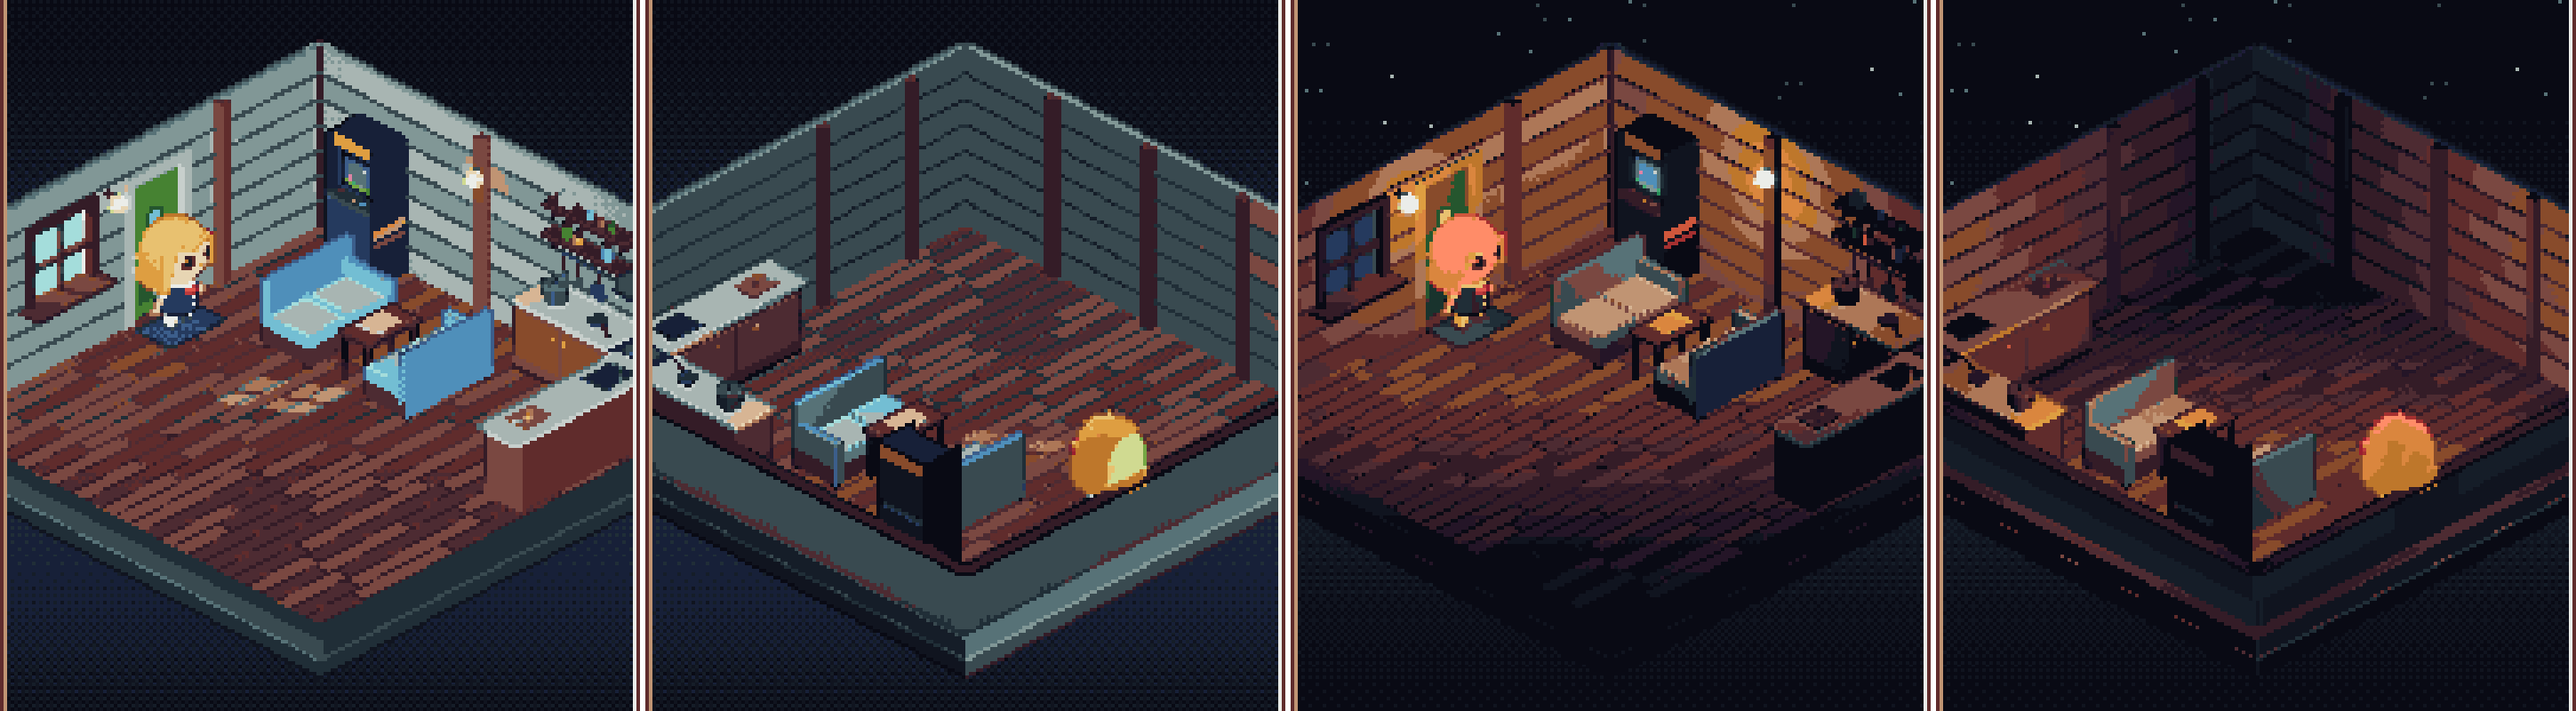
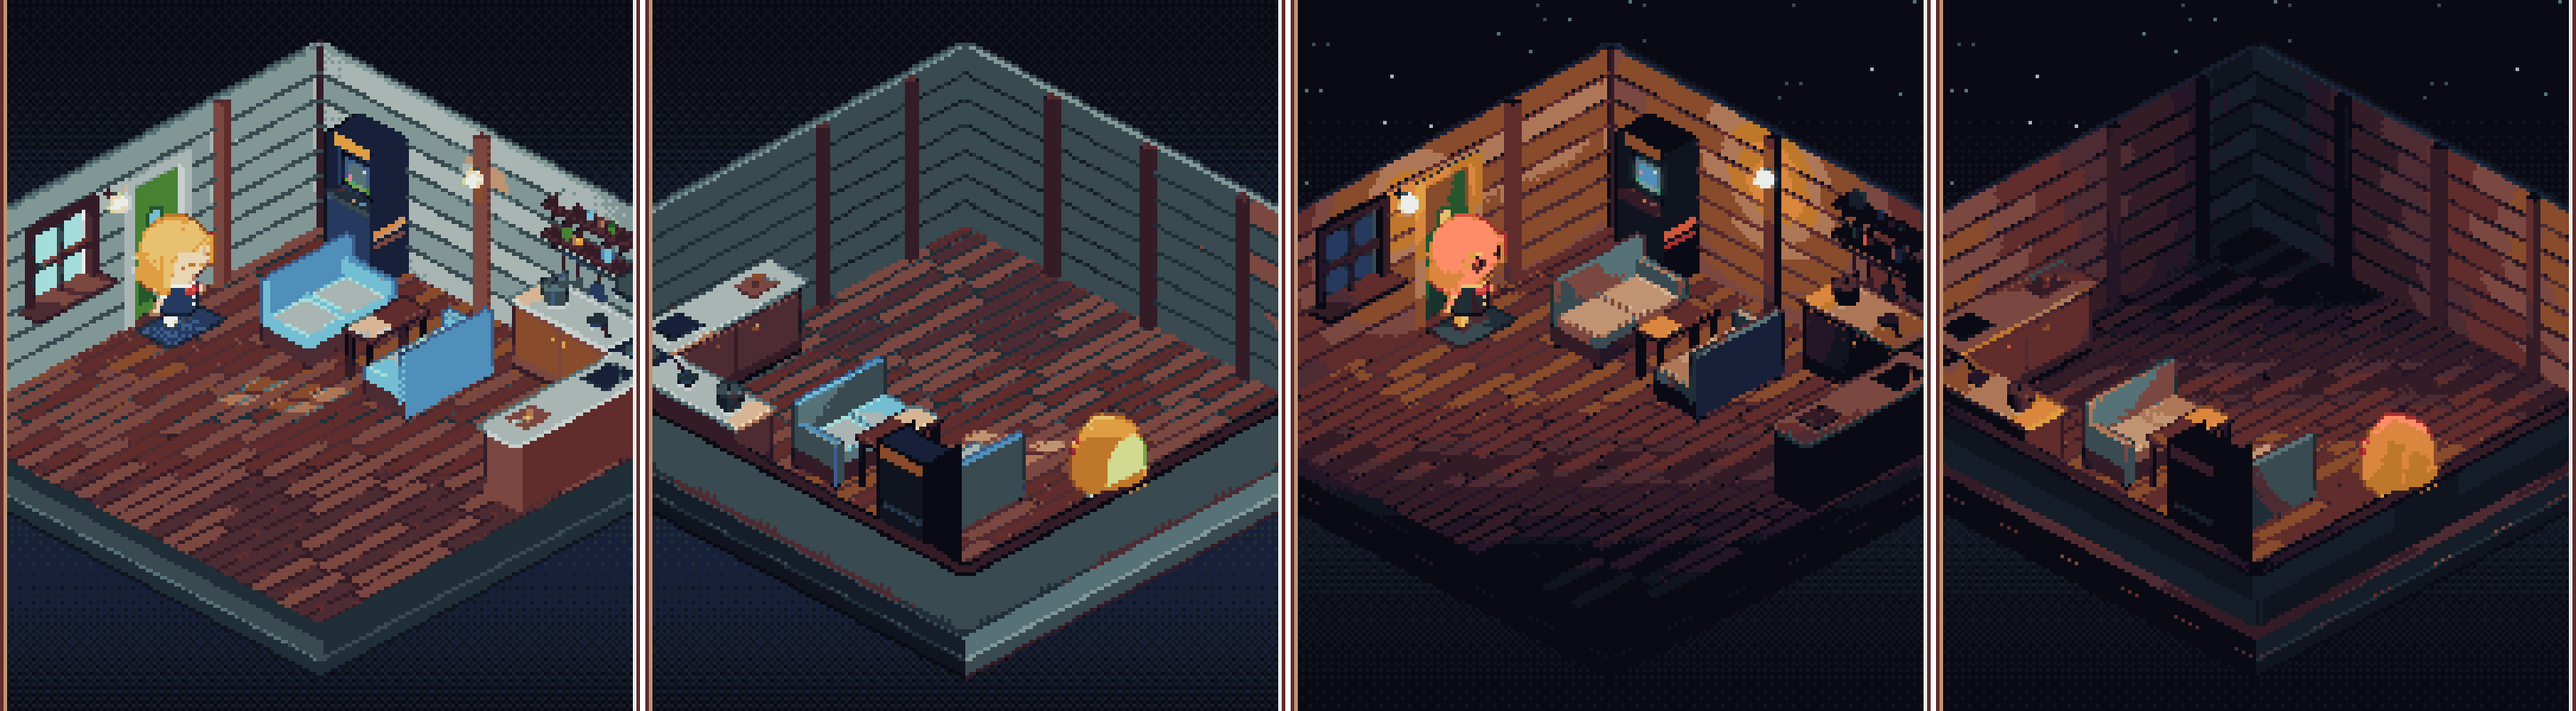
D: play-room taps by first visible surface (arcade / counter / table), final shots, report
Claude-Session: https://claude.ai/code/session_01Tq2y4TDvR447sevK1oN9Vu

diff --git a/js/scene3d.js b/js/scene3d.js
@@ -5203,12 +5203,27 @@ var SCENE3D = (function () {
       var h = hs[0]; if (ob.indexOf(h.object) >= 0) return 'oct'; if (h.object === doorDark) return 'door';
       return STAIR_HIT.containsPoint(atticG.worldToLocal(h.point.clone())) ? 'stair' : 'other';
     }
+    function playSurface() {   /* 놀이방: 광선이 처음 맞는 보이는 면 → 'machine' | 'counter' | 'table' | null (식탁 위 요리 · 앉은 두 캐릭터도 식탁) */
+      if (!PROOM) return null;
+      var ms = []; PROOM.g.traverseVisible(function (o) { if (o.isMesh && (o.material === lambert || o === TB.mesh || o.material === basicV)) ms.push(o); });
+      var bod = []; if (octG.parent === PROOM.g && octG.visible) bod = bod.concat(bodyMeshes()); if (plG.parent === PROOM.g && PL.tbl) plMeshes.forEach(function (m) { bod.push(m); });
+      var hs = ray.intersectObjects(ms.concat(bod), false); if (!hs.length) return null;
+      if (bod.indexOf(hs[0].object) >= 0 || hs[0].object === TB.mesh) return 'table';
+      var lp = PROOM.g.worldToLocal(hs[0].point.clone()), e = 0.02;
+      if (PROOM.boothBox.clone().expandByScalar(e).containsPoint(lp)) return 'table';
+      if (PROOM.machineBox.clone().expandByScalar(e).containsPoint(lp)) return 'machine';
+      if (PROOM.counterBox.clone().expandByScalar(e).containsPoint(lp) || PROOM.legBox.clone().expandByScalar(e).containsPoint(lp)) return 'counter';
+      return null;
+    }
     function pick(cx, cy) {   /* 클라이언트 CSS px (PointerEvent clientX/Y) → 탭 표적 메시 | null */
       var r = canvas.getBoundingClientRect();
       ndc.set(((cx - r.left) / r.width) * 2 - 1, -((cy - r.top) / r.height) * 2 + 1);
       ray.setFromCamera(ndc, camera);
       var okOct = octTappable(), sp;
-      if (PLACE.vis === 'play') { sp = spotAt(cx, cy, ['playAttic', 'machine', 'counter', 'table']); return sp ? spotHit(sp) : null; }
+      if (PLACE.vis === 'play') {   /* 11-18: 식탁 자리가 오락기 아랫단 · 조리대 옆에 붙어 단추 칸이 겹친다 → 톡한 자리에 처음 보이는 면으로 (오락기 · 조리대 · 식탁), 그 밖은 넓힌 칸 */
+        var pv = playSurface(); if (pv && SPOTS[pv] && spotInfo(pv)) return spotHit(pv);
+        sp = spotAt(cx, cy, ['playAttic', 'machine', 'counter', 'table']); return sp ? spotHit(sp) : null;
+      }
       if (PLACE.vis === 'loft') {   /* 위층: 따라 올라온 문어 · 미용실 거울(문어가 거울 앞이면 문어가 먼저) · 계단 · 재봉틀 */
         var upOct = okOct && octUp(), salOnL = !!SPOTS.salon && !!spotInfo('salon'), smL = salOnL ? [salA, salB, salC].filter(function (m) { return m.visible; }) : [];
         var hsL = ray.intersectObjects((upOct ? bodyMeshes() : []).concat(smL), false);
@@ -6659,6 +6674,7 @@ var SCENE3D = (function () {
         if (PLACE.vis === 'attic') { add('window', 'window', [glass]); tapItems().forEach(function (m) { add(m.userData.kind, tapId(m), [m]); }); }
         return out;
       },
+      debugPlayTruth: function (x, y) { scene.updateMatrixWorld(); camera.updateMatrixWorld(); var r = canvas.getBoundingClientRect(); ndc.set(((x - r.left) / r.width) * 2 - 1, -((y - r.top) / r.height) * 2 + 1); ray.setFromCamera(ndc, camera); return playSurface(); },   /* 11-18 시험용: 놀이방 그 자리에 보이는 것 */
       debugTapTruth: function (x, y) { scene.updateMatrixWorld(); camera.updateMatrixWorld(); var r = canvas.getBoundingClientRect(); ndc.set(((x - r.left) / r.width) * 2 - 1, -((y - r.top) / r.height) * 2 + 1); ray.setFromCamera(ndc, camera); return tapSurface(); },   /* 11-18 시험용: 그 자리에 보이는 것 (계단 · 문간 · 문어 · 그 밖) */
       pickAt: function (x, y) { scene.updateMatrixWorld(); camera.updateMatrixWorld(); var o = pick(+x, +y); return o ? { kind: o.userData.kind, id: tapId(o) } : null; },
       /* 디버그 (11-11 텃밭 시험, tools/smoke.js X): 바깥 원점 · 칸 흙 윗면 가운데 · 울타리 끝 기둥 (월드) · 흙 반폭 · 테 반폭 · 심은 것 지오메트리가 버릴 목록(keep)에 있나 · 목록 길이 · 내 캐릭터 머리 지오메트리 id (다시 지었나) */

diff --git a/wip/round6/notes/d-playtap.js b/wip/round6/notes/d-playtap.js
@@ -1,0 +1,31 @@
+/* wip/round6/notes/d-playtap.js — lane D: play-room tap targets (arcade / counter / table) do not steal each other. NODE_PATH=$(npm root -g) node wip/round6/notes/d-playtap.js */
+const P = require('../../round4/probe-lib.js');
+(async () => {
+  const b = await P.launch();
+  for (const o of [{ w: 360, h: 740, dpr: 2 }, { w: 412, h: 915, dpr: 2.625 }]) {
+    const { ctx, page } = await P.open(b, { w: o.w, h: o.h, dpr: o.dpr, look: { hour: 14 }, lantern: 4 });
+    await page.evaluate(() => APP.goRoom('play')); await page.waitForFunction(() => APP.scene.view() === 'play'); await page.waitForTimeout(1500);
+    await page.evaluate(() => {   /* stand-in buttons (the app's #btn-table is lane M's) */
+      const sc = document.getElementById('scene'), map = {};
+      ['playAttic', 'machine', 'counter', 'table'].forEach(id => { const e = document.createElement('button'); e.className = 'scene-spot'; e.id = 'probe-' + id; sc.appendChild(e); map[id] = e; });
+      APP.scene.hotspots(map); window.__spots = [];
+    });
+    for (const yaw of [0, 90, 180, 270]) {
+      await page.evaluate(y => APP.scene.setLook({ yaw: y }), yaw); await page.waitForTimeout(600);
+      const r = await page.evaluate(() => {
+        const S = APP.scene, sc = document.getElementById('scene').getBoundingClientRect(), out = { machine: [0, 0], counter: [0, 0], table: [0, 0], wrong: [] };
+        const bx = ['machine', 'counter', 'table'].map(id => S.spotRect(id)).filter(x => x && x.art);
+        if (!bx.length) return out;
+        const l = Math.max(2, Math.min(...bx.map(x => x.art.l))), t = Math.max(2, Math.min(...bx.map(x => x.art.t))), rr = Math.min(sc.width - 2, Math.max(...bx.map(x => x.art.r))), bb = Math.min(sc.height - 2, Math.max(...bx.map(x => x.art.b)));
+        for (let y = t; y <= bb; y += 4) for (let x = l; x <= rr; x += 4) {
+          const cx = sc.left + x, cy = sc.top + y, tr = S.debugPlayTruth(cx, cy); if (!tr || !S.spotRect(tr)) continue;
+          const p = S.pickAt(cx, cy); out[tr][1]++; if (p && p.id === tr) out[tr][0]++; else if (out.wrong.length < 4) out.wrong.push([tr, x | 0, y | 0, p && p.id]);
+        }
+        return out;
+      });
+      console.log(o.w + '@' + o.dpr, yaw + '°', ['machine', 'counter', 'table'].map(k => k + ' ' + r[k][0] + '/' + r[k][1]).join(' · '), JSON.stringify(r.wrong));
+    }
+    await ctx.close();
+  }
+  await b.close();
+})();

diff --git a/wip/round6/reports/D.md b/wip/round6/reports/D.md
@@ -1,0 +1,178 @@
+# Lane D report — dining in 3D, auras, loft stair tap (round 6, branch `lane/d`)
+
+## Conclusion
+
+The play-room booth, the table dish, my character sitting and eating, the octopus walking in, sitting, eating and leaving,
+the auras, `on.tableSpot` and the whole §10.3 scene API are built in `js/scene3d.js`.
+- **Tests:** `tools/test-scene-perf.js` passes 150/0, with the new T8 (39 checks) and T1–T7 unchanged. `npm test` is all green.
+- **Layout:** candidate **B**. Every T7 corridor and number is unchanged — **no fallback was needed**. The lead approved the layout after the first push (d3720d9).
+- **Loft stair tap (audit J3):** a tap on the stair now goes to the stair 100 % of the time (before: 64–83 % at the default view, 0–65 % turned 180°). The doorway goes to the yard 100 %.
+- **Play-room tap targets** (lead's extra check): the arcade, counter and table each get 100 % of taps at both phone sizes and all four turns.
+- **Independent check:** one must and three shoulds; the must and two shoulds are fixed, the third (the stair grid's ground truth) is a known limit, below.
+- **Smoke:** `SMOKE_ONLY=J,Z,CAM` gave one failure on its first run: Z2 "a tap on the sewing machine while the view still glides" (`spot:sew`). It did not reproduce: a rerun of `SMOKE_ONLY=Z` on this branch, after the last code change, passed 132/0, and the base commit also passes. I read it as a timing flake, not a code change of mine (the loft pick is untouched).
+
+## Changes (all in files I own, except the one smoke region the brief gives me)
+
+`js/scene3d.js`:
+- **`BOOTH` + `boothParts()` (in `buildPlayRoom`):** one table and two two-seater sofas, merged into the static room mesh (0 extra draw calls). The booth is in the `cutSplit` keep list. `PROOM.boothBox` is the obstacle and the `'table'` hotspot.
+- **`plBoxes()` play branch:** adds the booth.
+- **Hotspot `'table'`:** added to `SPOT_KEYS`, `spotInfo` and the play pick list.
+- **New `playSurface()` in the play-room pick:** the arcade, counter and table spot boxes overlap on screen now, so a tap goes to the first visible surface. Other taps fall back to the widened spot boxes as before.
+- **Table dish (`setTableDish`, `dishParts`, `dishRebuild`, `stepDish`, `biteTake`):** one merged lambert mesh (+2 calls). The plate colour follows `look.plate`, and each of the three recipes has its own shape (unknown recipe = covered plate).
+  - Each bite removes the piece nearest the eater and adds 2–3 crumbs.
+  - The appear beat is 6 frames; steam shows while the dish waits (none under reduced motion).
+  - A dish set before the room is built is remembered. During a meal a new dish is queued.
+  - The empty plate is cleared when I stand up or leave the room.
+- **Me at the table (`playerSitTable` / `playerStandTable` / `mealBite('me')` / `stepMeBite`):**
+  - `plStand(done)` is now place-aware: the attic sofa works as before, and at the table I hop to my aisle. The stick stand-up takes the same path.
+  - Hops carry a `done` callback.
+  - Standing up makes the octopus leave (§4.3 'after').
+- **The octopus at the table (`octCanCome`, `octToTable`, `octSeatNow`, `octTableBeat`, `mealBite('oct')`, `octLeaveTable`, `octTableUnmount`, `tablePose`, `tableLook`):**
+  - Seated pose: legs folded (front ×0.66 drooping over the seat edge, sides ×0.55, back ×0.42); the contact decal is hidden.
+  - The eat beat leans the body 8°. The bite reaches one front arm over the tabletop toward the dish (body upright and 1 px up for those 2 frames), then squashes. The face stays `idle`.
+  - Leaving: hop down, walk to the door, door opens, 8-step dither fade, then `jumpTo` its attic anchor.
+- **Hold rule (`tableHold`):** while the octopus is at the table, `jumpTo`, `moveTo` and anyone else's `walkPoint` are held; the latest one is applied after the unmount and its Promise resolves then.
+- **Unmount at once:** on leaving the play room (`showPlace`), at ceremony start (`cerRun`), when the story place changes (`setPlaceNow`), and on context loss (`tableLost`, which also resolves beats and bites).
+- **Overlay:** the `updateOverlay` room hide is lifted while the octopus is at the table, and `octScreenPos()` returns its head.
+- **Portraits:** `renderPortrait` treats "at the table" like `salClean`, so the arms' `scale.x` and the pupils are washed back to the rest pose. A portrait or walk portrait taken while it leans equals the one taken at home (T8).
+- **`on.tableSpot({ seat, call, dish })` (`stepTableSpot`):** uses the same on-screen rule as `stepSofaSpot`.
+- **`tableInfo()` with `geom`.** Test hooks: `debugTableBodies`, `auraInfo`, `debugBoothVisible`, `debugTapTruth`, `debugPlayTruth`.
+- **Auras (`setAura`, `auraLayout`, `stepAura`):**
+  - Each character has one `Points` (≤ 20 vertices, the vertexColors variant) and a layer-1 twin (≤ 4 vertices), attached to the character's current group.
+  - Positions are snapped to pixel centres and step at 12 fps. Bloom takes 6 frames; reduced motion shows a still pose.
+  - **Programs:** the new layer-1 twin variant was the only new program (the bloom pass collects no lights). It is now compiled in `prewarm()` with a light-less scene into `rtE`, which also covers the summer firefly twin. Boot programs go from 33 to 34, and the cache keys do not change at the first aura in the attic, play room, loft, yard or exterior (T8).
+- **Attic stair tap (`tapSurface`, `STAIR_HIT`):** in the attic pick, the first visible surface decides. Stair geometry (treads, side boards, railing, posts) goes to the stair; the doorway's dark plane goes to the yard. Other taps fall back to the spot boxes, stair first. The octopus in front still wins first, as before.
+
+Other files:
+- `tools/test-scene-perf.js`: new T8 (below).
+- `tools/smoke.js` `scenarioLoft`: the stair/doorway tap grid.
+- `docs/SCENE.md`: a new section.
+- `wip/round6/notes/`: D.md and the probe scripts `d-shots.js`, `d-stair.js`, `d-playtap.js`.
+
+## Chosen layout (play-room group, m; spec §4.1)
+
+| item | value |
+|---|---|
+| obstacle (`boothBox`) | x −1.53..0.66, y 0..0.82, z −1.92..−0.62 (+0.25 → x −1.78..0.91, z ≤ −0.37) |
+| keep box | x −1.58..0.71, y −1..0.92, z −1.97..−0.57 |
+| octopus sofa | back x −1.53..−1.41 (top 0.82), seat x −1.41..−0.79 (top 0.42), arm x −1.53..−0.79, z −1.92..−1.80 (top 0.58) |
+| my sofa | back x 0.54..0.66, seat x 0.00..0.54, arm z −1.92..−1.80 |
+| table | x −0.47..−0.06, z −1.70..−0.80, top 0.63 (rim 0.57); dish spot (−0.265, 0.63, −0.99) on a paper mat |
+| seats | octopus (−0.95, 0.42, −1.04) yaw 70° · me (0.21, 0.18, −1.36) yaw −90° |
+| aisles | octopus (−0.95, 0.02), entered from the door anchor via (−2.0, 0.02) · me (0.21, −0.30) |
+
+**Why B:**
+- The T7 lanes fix x ∈ (−1.55, 0.70).
+- The door lane and the rest-spot walk fix z_max < −0.58.
+- The arcade front (−2.20) and the counter front (−2.15) fix the back; 0.23 m to the counter satisfies rule 7.
+- A is 6 cm short of the x budget. C leaves the octopus 0.28 m end gaps, narrower than its body.
+
+**Measured clearances (T8, real meshes):**
+- Octopus head to the table edge at tabletop height: 0.120 m seated, 0.101 m leaned 8°, 0.193 m during the reach (all ≥ 0.03).
+- No overlap at 0.01 m in any of the seated, lean, reach-frame-0 or reach poses, checking the octopus's head ellipsoid, the 8 legs' keypoint spheres, and my head, hair and limb boxes against the sofas, table top, table legs, arcade, counter, L-leg and walls.
+- The octopus's whole walk-in path (58 sampled frames) clears every box.
+- My hair clears my backrest, and my torso clears the table edge by 0.011 m.
+
+## Decisions (small choices I made)
+
+- **Seat yaw and dish spot (lead may overturn):**
+  - The octopus sits at yaw 70°, not 90°. At 90° the face read as a side view and my head covered it (first shots), so 70° shows three-quarters while still facing the table.
+  - The seats are staggered in z (octopus −1.04, me −1.36) so the two heads do not overlap on screen.
+  - The dish sits at the table's near end so neither head hides it.
+- **Dining sofas:** the open front end (+z) is where each character hops on; one arm only, at the back-wall end.
+- **Stand-up makes the octopus leave:** standing up (stick or `playerStandTable`) is handled by the scene (§4.3 'after'). M may still call `octLeaveTable`; it is idempotent.
+- **Dish queue:** a new dish waits while the octopus is walking in or out, while a bite runs, or while I or the octopus sit at the table with pieces left and either a beat started or a bite eaten. A new dish clears the previous beat, so the octopus sits upright again.
+- **Bite reach:** the front arm aims at the dish. For its 2 frames the body straightens and lifts 1 px, because with the 8° lean the arm passed through the tabletop.
+- **T8 tolerances:**
+  - My seated legs' boxes may sink into my own cushion by up to 0.14 m (the thigh thickness of the existing −1.35 rad sit pose — "legs may rest on a seat top"); arms 0.03.
+  - Leg collisions are checked with keypoint spheres, not AABBs: the AABB of a raised diagonal arm covers air over the table.
+- **Cushion ramp:** `PAL.sky`.
+
+## Player-facing text
+
+None added or changed. No visible text, no aria names (the buttons are lane M's).
+
+## Checks added
+
+- **T8 in `tools/test-scene-perf.js`:**
+  - Layout and booth: layout geometry; the booth visible at all 12 turns; pushes into the booth stop at its +0.25 edge (−z from both aisles, and from the east and west).
+  - Dish: +2 calls per recipe, 4 pieces each.
+  - Sitting and the octopus's arrival: sit at my seat; `octCanCome` false ⇔ `octToTable` false (asleep); the door opens over 4 frames (`012343210`); the octopus sits at its seat facing the table with the decal hidden.
+  - §4.1 rules: checked on the seated, lean, reach0 and reach poses, plus the walk-in path.
+  - Beats and bites: a second dish resolves at once; think lasts 1.0 s; lean is 8°; bites go 4 → 0 alternating, and a fifth returns false.
+  - Portraits: the portrait and walk portrait while leaning equal the ones taken at home.
+  - Auras:
+    - Placement: dots stay inside the character's screen box + 4 px and sit on pixel centres — at the table, in the play room, in the exterior during the departure and return ceremonies, in the attic, in the loft and in the yard.
+    - Behaviour: the parent group is correct; bloom runs 6 frames; steps run at 12 fps; reduced motion is still.
+    - Programs: cache keys unchanged and the program count unchanged.
+  - Draw calls: during a meal 80 ≤ base 50 + octopus 25 + 12, and ≤ 150.
+  - Hold rule: a held `jumpTo('crate')` lands on the crate anchor after the unmount.
+  - Stand-up and abort paths: the octopus leaves to the attic and the empty plate is cleared; an instant sit works and a ceremony start unmounts the octopus; a new dish mid-meal is queued; standing mid-bite resolves the bite false; the run ends in the attic.
+- **Smoke Z (`scenarioLoft`):** a 4 px tap grid at 360x740@2 and 412x915@2.625, 0°/90°/180°, day and night; stair ≥ 95 % and doorway ≥ 95 %. It counts only points whose button is shown — 3 edge pixels at 360 night 180° have the stair button hidden because the visible piece is under 8 px.
+- **Known limit (independent check):** the grid's ground truth (`debugTapTruth`) uses the same `tapSurface()` as the pick, so the grid proves the wiring and the buttons, not that the stair reads as tappable. The reviewer checked separately with screenshot overlays and found the behaviour right (360 at 0°: 58/58 stair; 412 at 0°: 186/186; doorway 52/52 at both sizes). A pixel-diff ground truth is left for later.
+
+## Suites run
+
+| suite | result |
+|---|---|
+| `node tools/test-scene-perf.js` | 150 passed, 0 failed |
+| `npm test` (all node suites) | all 0 failed |
+| `SMOKE_ONLY=J,Z,CAM node tools/smoke.js` | 202 passed, 1 failed (Z2 sew tap during the glide) |
+| same smoke Z at the base commit `5a6311f` | 118 passed, 0 failed |
+| `SMOKE_ONLY=Z` rerun on this branch (final code, includes the stair grid) | 132 passed, 0 failed |
+
+For the lead: no new test files. T8 is inside `tools/test-scene-perf.js` and the stair grid inside smoke Z, so CI needs nothing new as long as it already runs those two.
+
+## Measured numbers
+
+- **Draw calls (T8 harness, 360x326 @1, p=3):** play room base 50, during a meal 80 (octopus 25), ≤ 150.
+- **Draw calls (independent check, real app):** base 50–51, meal 67.
+- **Dish:** +2 calls.
+- **Programs:** boot 34 (was 33: +1 for the prewarmed layer-1 twin variant). Unchanged after every visit and aura; cache keys compared.
+- **Stair tap grid, before → after:**
+
+| view | before stair | before door | after stair | after door |
+|---|---|---|---|---|
+| 360@2 0° | 125/180 (69 %) | 140/140 | 180/180 | 140/140 |
+| 360@2 0° night | 125/187 (67 %) | 133/133 | 187/187 | 133/133 |
+| 360@2 90° | 40/40 | — | 40/40 | — |
+| 360@2 180° night | 0/3 (stolen by the yard) | — | button hidden (edge) | — |
+| 412@2.625 0° | 340/409 (83 %) | 139/139 | 409/409 | 139/139 |
+| 412@2.625 0° night | 340/415 (82 %) | 133/133 | 415/415 | 133/133 |
+| 412@2.625 90° | 37/37 | — | 37/37 | — |
+| 412@2.625 180° | 53/81 (65 %) | — | 81/81 | — |
+| 412@2.625 180° night | 57/89 (64 %) | — | 89/89 | — |
+
+  Before, the misses went to `atticYard` or to null (clipped stair button). At 360@2 180° day neither target is visible.
+- **Play-room taps** (`wip/round6/notes/d-playtap.js`, truth = first visible surface; stand-in buttons because `#btn-table` is lane M's) — arcade / counter / table:
+
+| view | 360x740@2 | 412x915@2.625 |
+|---|---|---|
+| 0° | 219/219 · 346/346 · 525/525 | 220/220 · 443/443 · 523/523 |
+| 90° | 154/154 · 232/232 · 431/431 | 166/166 · 232/232 · 434/434 |
+| 180° | 181/181 · 262/262 · 334/334 | 177/177 · 301/301 · 338/338 |
+| 270° | 211/211 · 334/334 · 509/509 | 246/246 · 330/330 · 510/510 |
+
+  The seat and call chips are lane M's buttons placed from `on.tableSpot`. Seat sits above my seat and call above the octopus's seat, both inside the booth; M should check their 44 px chips against `#btn-machine` and `#btn-cook`.
+
+## Shots (`wip/round6/shots/D/`)
+
+1. `1-layout-360.png`, `1-layout-412.png`: booth day 0°, day 180°, night 0°, night 180° (regenerated with the final table).
+2. `2-dishes-2x.png`: 해초전 · 주먹밥 · 과일 꼬치 on the table at 2× zoom, the octopus seated.
+3. `3-seated-412.png`: me and the octopus seated, 412x915@2.625.
+4. `4-bite-oct-2x.png`: the octopus's bite reach over the tabletop.
+5. `5-auras.png`: me (sparkle) and the octopus (star) in the attic at night, and me (petal) in the yard.
+   - **Flag for the owner:** at 1 render px the auras are subtle. The star reads; the sparkle on me at night and the petals in the yard are hard to see at 1×. That is the spec's dot size; I did not enlarge it.
+
+## Needs another lane merged to be fully tested
+
+- **M:** the flow (`mealBusy`, chips, toasts, the app's bubble and CSS gates, `#btn-table` / `#btn-seat` / `#btn-call` wired through `hotspots`, the scene description line) and smoke EAT. I drove the scene API directly with stand-in buttons.
+- **R:** `walkPortrait`'s `sq` option. The portrait-equality check uses today's `walkPortrait`.
+- **K2:** the real `look` shape of the new dishes. I read only `look.band` (0..2, default 1) and `look.plate` (0..2).
+
+## Left, and not verified
+
+- The stair grid's independent ground truth (see "Known limit" above).
+- 320x568@2 was looked at only by the independent check (no defects reported), not in my own shots.
+- The play-room tap-target numbers come from a probe, not from a CI check.
+- I did not check the 360x740@3 size.
